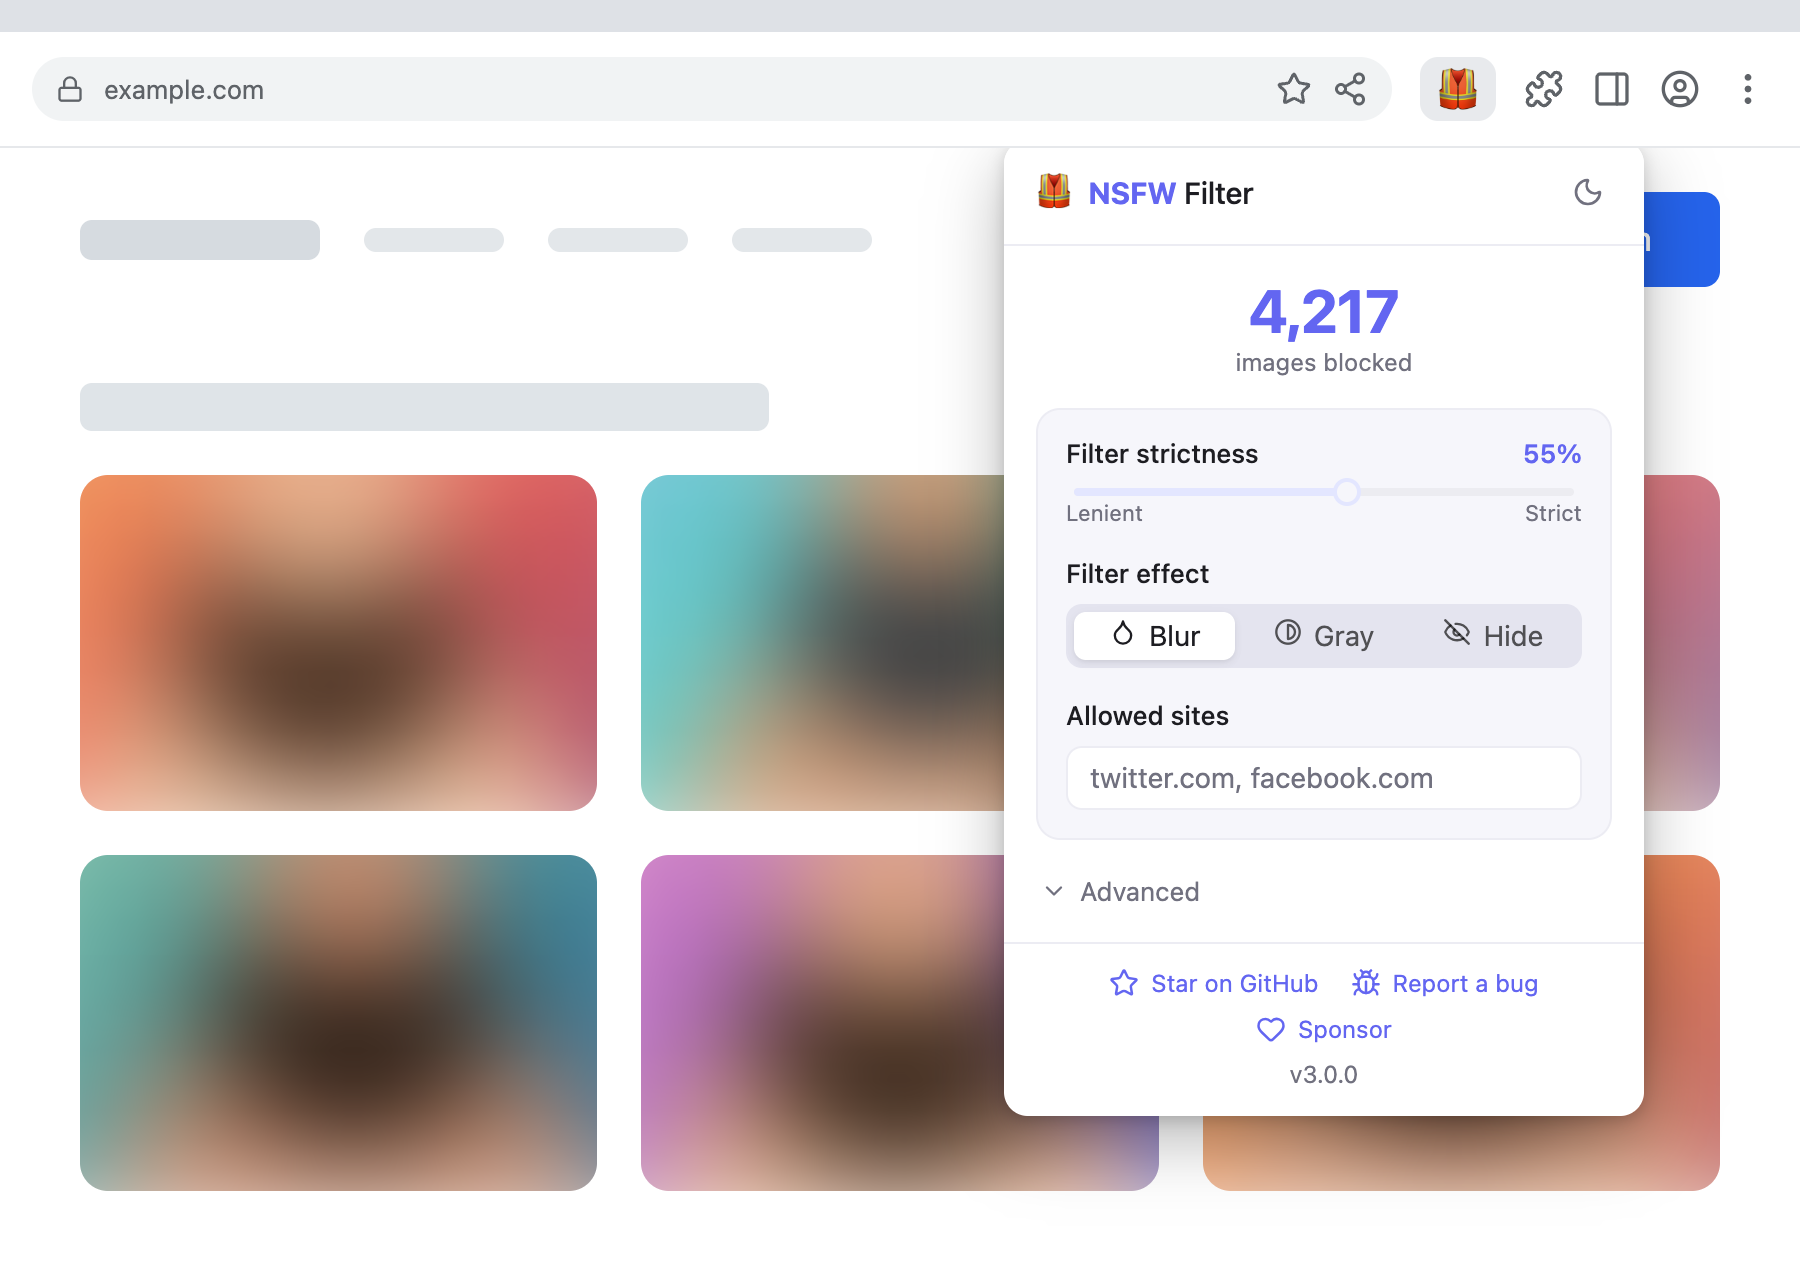
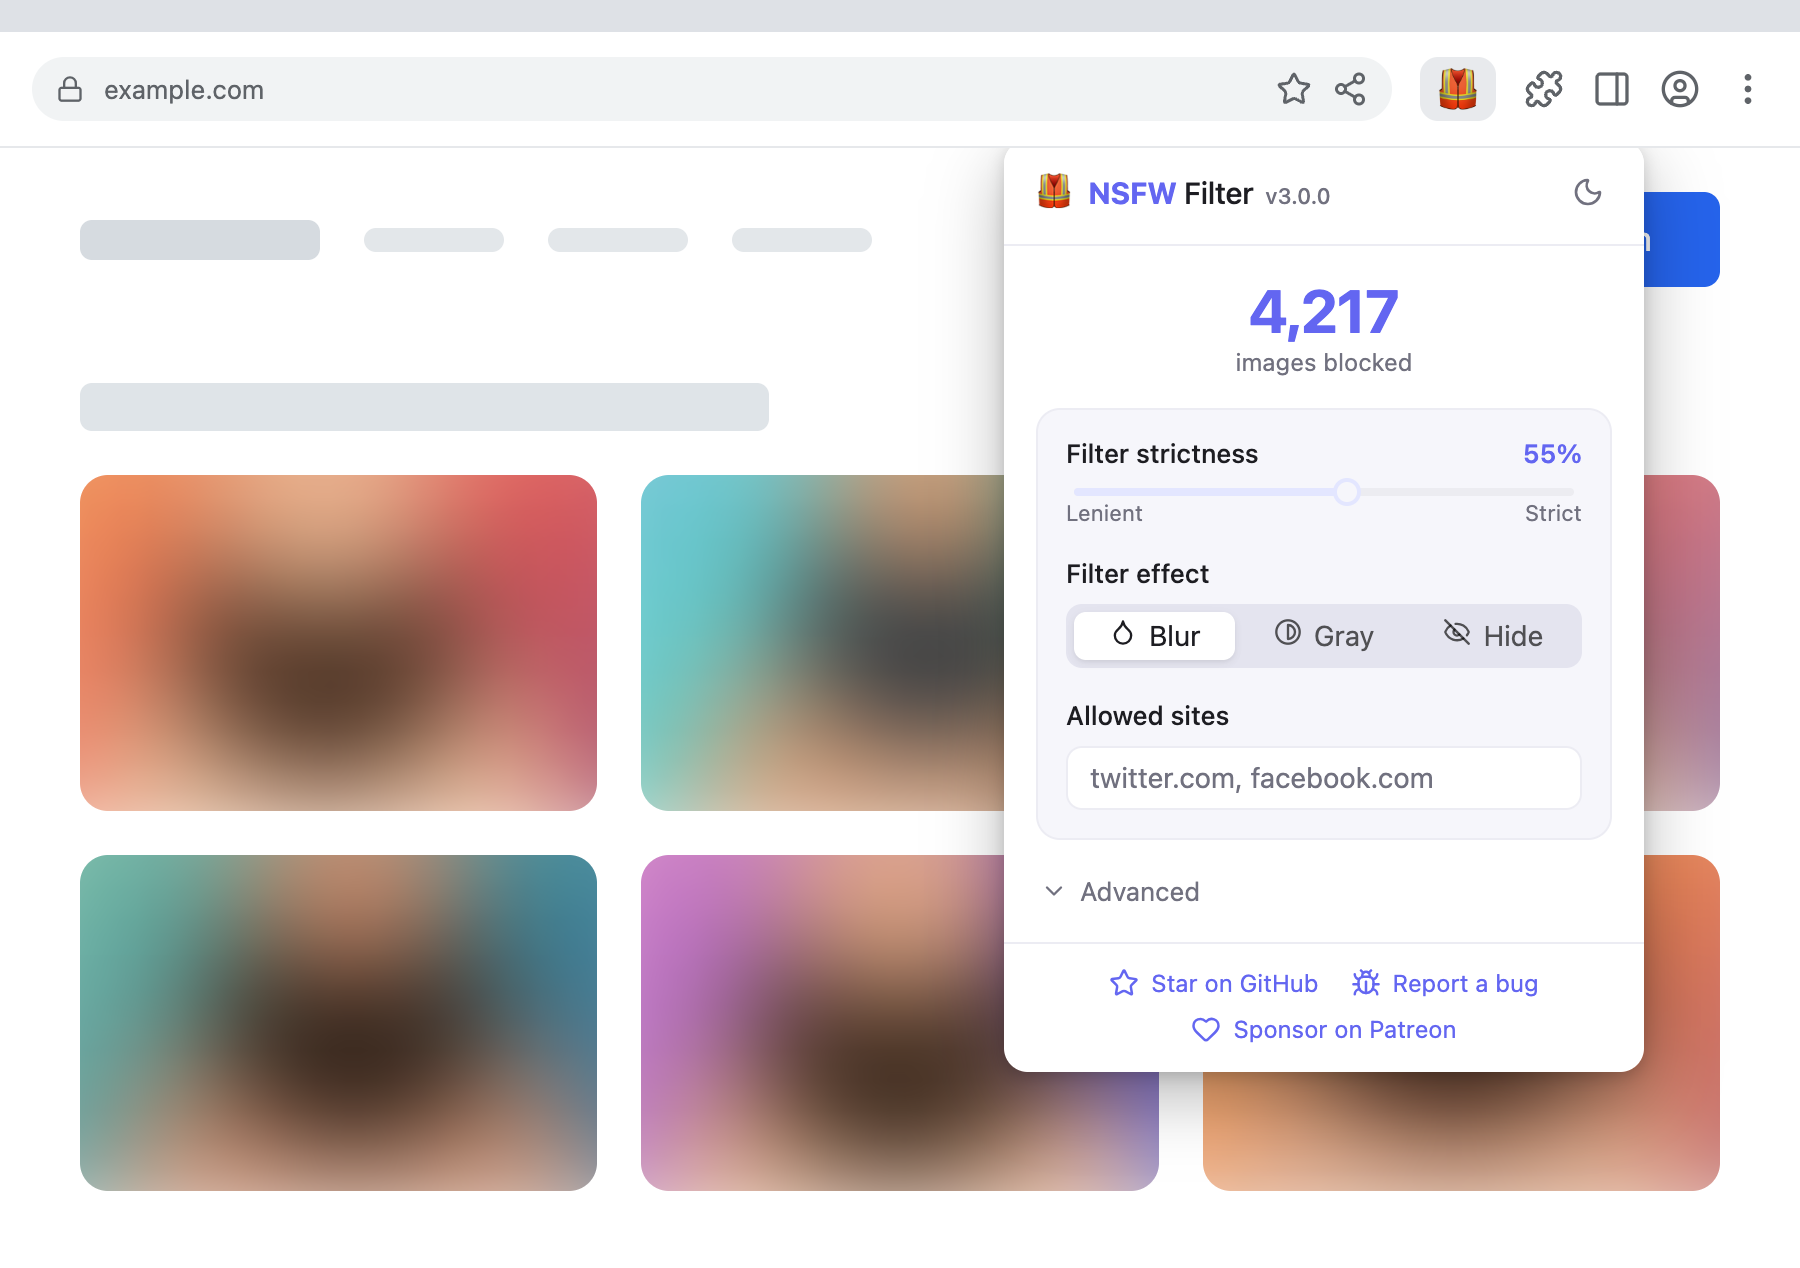
fix: correct screenshots

Changed region(s): [[0.56, 0.7997, 0.9333, 0.9227]]

diff --git a/src/popup/components/Header/index.tsx b/src/popup/components/Header/index.tsx
@@ -5,20 +5,24 @@ import { useSelector, useDispatch } from 'react-redux'
 import { TOGGLE_THEME } from '../../redux/actions/appearance'
 import { RootState } from '../../redux/reducers'
 import { Logo } from '../Logo'
-import { Container, Brand, Title, ThemeToggle } from './styles'
+import { Container, Brand, Wordmark, Title, Version, ThemeToggle } from './styles'
 
 export const Header: React.FC = () => {
   const dispatch = useDispatch()
   const darkTheme = useSelector<RootState>(state => state.appearance.darkTheme) === true
+  const version = chrome.runtime.getManifest().version
 
   return (
     <Container>
       <Brand>
         <Logo size={18} />
-        <Title>
-          <span id="logo-first-letters">NSFW</span>
-          <span> Filter</span>
-        </Title>
+        <Wordmark>
+          <Title>
+            <span id="logo-first-letters">NSFW</span>
+            <span> Filter</span>
+          </Title>
+          <Version>v{version}</Version>
+        </Wordmark>
       </Brand>
       <ThemeToggle aria-label="Toggle theme" aria-pressed={darkTheme} onClick={() => dispatch({ type: TOGGLE_THEME })}>
         {darkTheme ? <Sun size={16} /> : <Moon size={16} />}

diff --git a/src/popup/components/Footer/index.tsx b/src/popup/components/Footer/index.tsx
@@ -1,11 +1,9 @@
 import { Bug, Heart, Star } from 'lucide-react'
 import React from 'react'
 
-import { Container, Links, Link, Version } from './styles'
+import { Container, Links, Link } from './styles'
 
 export const Footer: React.FC = () => {
-  const version = chrome.runtime.getManifest().version
-
   return (
     <Container>
       <Links>
@@ -16,10 +14,9 @@ export const Footer: React.FC = () => {
           <Bug size={15} /> Report a bug
         </Link>
         <Link rel="noreferrer" target="_blank" href="https://www.patreon.com/nsfwfilter">
-          <Heart size={15} /> Sponsor
+          <Heart size={15} /> Sponsor on Patreon
         </Link>
       </Links>
-      <Version>v{version}</Version>
     </Container>
   )
 }

diff --git a/src/popup/components/Header/styles.ts b/src/popup/components/Header/styles.ts
@@ -16,6 +16,12 @@ export const Brand = styled.div`
   gap: 8px;
 `
 
+export const Wordmark = styled.div`
+  align-items: baseline;
+  display: flex;
+  gap: 6px;
+`
+
 export const Title = styled.div`
   color: ${props => props.theme.text.primary};
   font-family: -apple-system, BlinkMacSystemFont, 'Segoe UI', Roboto, Helvetica, Arial, sans-serif;
@@ -27,6 +33,12 @@ export const Title = styled.div`
     color: ${props => props.theme.accent};
     font-weight: 700;
   }
+`
+
+export const Version = styled.span`
+  color: ${props => props.theme.text.secondary};
+  font-size: 11px;
+  font-weight: 500;
 `
 
 export const ThemeToggle = styled.button`

diff --git a/test/e2e/popupLayout.test.js b/test/e2e/popupLayout.test.js
@@ -54,7 +54,7 @@ describe('Popup layout', () => {
   test('key controls and links render in full', async () => {
     await open()
     const text = await page.evaluate(() => document.getElementById('popup').textContent)
-    for (const label of ['NSFW', 'Filter', 'Blur', 'Hide', 'Star on GitHub', 'Sponsor']) {
+    for (const label of ['NSFW', 'Filter', 'Blur', 'Hide', 'Star on GitHub', 'Sponsor on Patreon']) {
       expect(text).toContain(label)
     }
     // "Grayscale" is shortened to "Gray" so it fits its third of the block

diff --git a/src/popup/components/Footer/styles.ts b/src/popup/components/Footer/styles.ts
@@ -30,8 +30,3 @@ export const Link = styled.a`
     text-decoration: underline;
   }
 `
-
-export const Version = styled.div`
-  color: ${props => props.theme.text.secondary};
-  font-size: 12px;
-`
